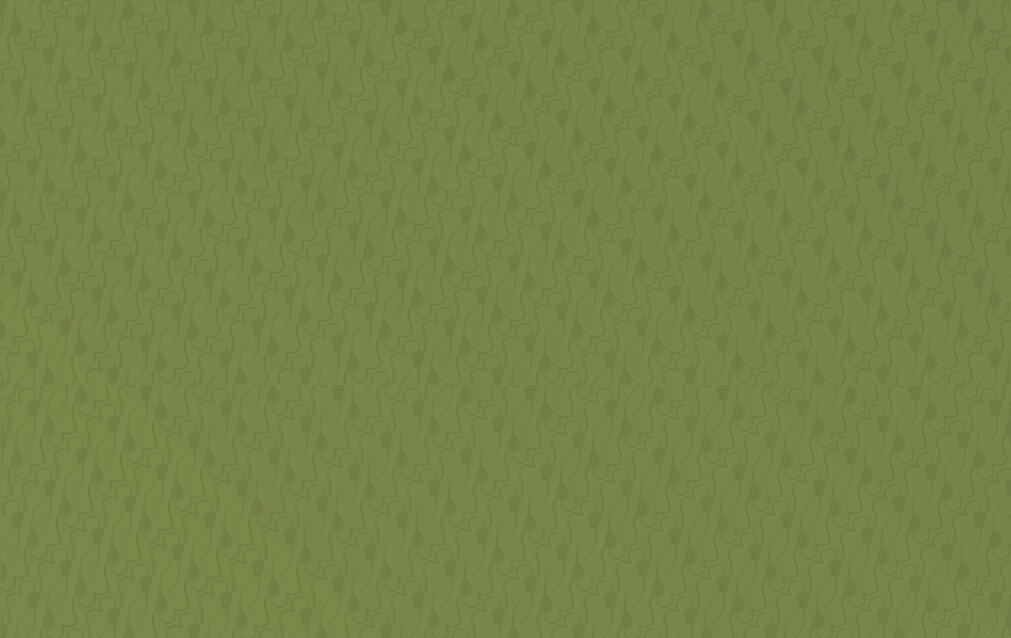
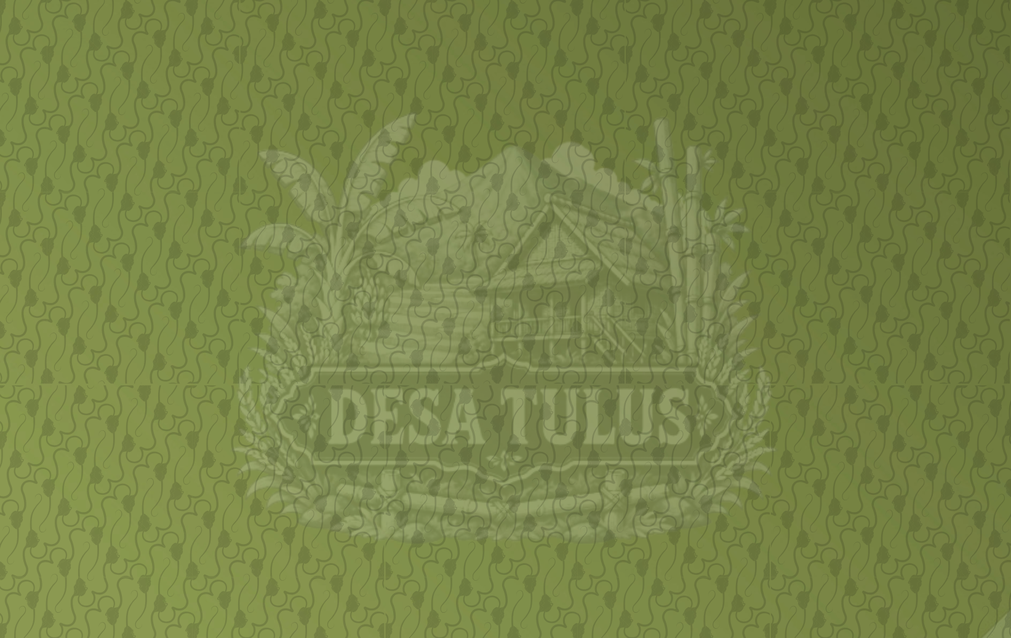
Update background KTP Pak RW v10.10.91 tanpa watermark tambahan

diff --git a/services/ktpWarga.js b/services/ktpWarga.js
@@ -48,7 +48,7 @@ function defaultKtpConfig() {
     cardSubtitle: "DESA TULUS",
     privacyNote: "KARTU KOMUNITAS DIGITAL • BUKAN DOKUMEN RESMI",
     numberMode: "random_unique_18_digits_v2",
-    rendererVersion: "10.10.89",
+    rendererVersion: "10.10.91",
     logToConsole: true
   };
 }
@@ -480,132 +480,6 @@ function resolveBackgroundPath(config = {}) {
   return path.join(__dirname, "..", configured);
 }
 
-function drawVillageTheme(ctx, width, height, frame = {}) {
-  const x = Number(frame.x || 0);
-  const y = Number(frame.y || 0);
-  const w = Number(frame.w || width);
-  const h = Number(frame.h || height);
-
-  ctx.save();
-  roundedRect(ctx, x, y, w, h, Number(frame.radius || 20));
-  ctx.clip();
-
-  // Garis lanskap dibuat sangat tipis agar tema perdesaan terasa tanpa membuat kartu ramai.
-  ctx.globalAlpha = 0.052;
-  ctx.strokeStyle = "#29401d";
-  ctx.lineWidth = 2;
-
-  const baseY = y + h - 78;
-  ctx.beginPath();
-  ctx.moveTo(x + 20, baseY);
-  ctx.quadraticCurveTo(x + 128, baseY - 50, x + 238, baseY);
-  ctx.quadraticCurveTo(x + 344, baseY - 76, x + 470, baseY);
-  ctx.quadraticCurveTo(x + 575, baseY - 43, x + 690, baseY);
-  ctx.stroke();
-
-  for (let index = 0; index < 2; index += 1) {
-    const lineY = y + h - 48 + index * 17;
-    ctx.beginPath();
-    ctx.moveTo(x + 22, lineY);
-    ctx.bezierCurveTo(x + 165, lineY - 10, x + 310, lineY + 7, x + 475, lineY - 3);
-    ctx.bezierCurveTo(x + 610, lineY - 10, x + 720, lineY + 7, x + 820, lineY - 2);
-    ctx.stroke();
-  }
-
-  ctx.restore();
-}
-
-function drawVillageWatermark(ctx, frame = {}) {
-  const x = Number(frame.x || 0);
-  const y = Number(frame.y || 0);
-  const w = Number(frame.w || 1011);
-  const h = Number(frame.h || 638);
-  const radius = Number(frame.radius || 20);
-  const centerX = x + w * 0.505;
-  const centerY = y + h * 0.535;
-
-  ctx.save();
-  roundedRect(ctx, x, y, w, h, radius);
-  ctx.clip();
-
-  // Emblem utama sengaja sangat transparan: terlihat sebagai watermark, bukan elemen depan.
-  ctx.globalAlpha = 0.052;
-  ctx.strokeStyle = "#203617";
-  ctx.fillStyle = "#203617";
-  ctx.lineWidth = 2.4;
-
-  // Lingkaran emblem.
-  ctx.beginPath();
-  ctx.arc(centerX, centerY - 18, 112, 0, Math.PI * 2);
-  ctx.stroke();
-  ctx.beginPath();
-  ctx.arc(centerX, centerY - 18, 101, 0, Math.PI * 2);
-  ctx.lineWidth = 1.2;
-  ctx.stroke();
-
-  // Matahari dan gunung sederhana.
-  ctx.beginPath();
-  ctx.arc(centerX + 47, centerY - 83, 15, 0, Math.PI * 2);
-  ctx.fill();
-
-  ctx.lineWidth = 3;
-  ctx.beginPath();
-  ctx.moveTo(centerX - 84, centerY - 19);
-  ctx.lineTo(centerX - 31, centerY - 70);
-  ctx.lineTo(centerX + 7, centerY - 30);
-  ctx.lineTo(centerX + 43, centerY - 63);
-  ctx.lineTo(centerX + 88, centerY - 18);
-  ctx.stroke();
-
-  // Bale desa kecil di tengah emblem.
-  ctx.lineWidth = 2.6;
-  ctx.beginPath();
-  ctx.moveTo(centerX - 34, centerY + 1);
-  ctx.lineTo(centerX, centerY - 23);
-  ctx.lineTo(centerX + 34, centerY + 1);
-  ctx.stroke();
-  ctx.strokeRect(centerX - 26, centerY + 1, 52, 29);
-  ctx.beginPath();
-  ctx.moveTo(centerX, centerY + 1);
-  ctx.lineTo(centerX, centerY + 30);
-  ctx.stroke();
-
-  // Sawah berupa tiga lengkung halus.
-  ctx.lineWidth = 1.8;
-  for (let index = 0; index < 3; index += 1) {
-    const fieldY = centerY + 45 + index * 12;
-    ctx.beginPath();
-    ctx.bezierCurveTo(
-      centerX - 88,
-      fieldY - 8,
-      centerX - 25,
-      fieldY + 8,
-      centerX,
-      fieldY
-    );
-    ctx.bezierCurveTo(
-      centerX + 25,
-      fieldY - 8,
-      centerX + 72,
-      fieldY + 7,
-      centerX + 88,
-      fieldY
-    );
-    ctx.stroke();
-  }
-
-  // Nama desa menjadi inti watermark seperti contoh, tetapi tetap tidak menonjol.
-  ctx.globalAlpha = 0.072;
-  ctx.textAlign = "center";
-  setCanvasFont(ctx, 43, 900);
-  ctx.fillText("DESA TULUS", centerX, centerY + 70);
-  ctx.globalAlpha = 0.058;
-  setCanvasFont(ctx, 11, 800);
-  ctx.fillText("RUKUN • NYAMAN • TULUS", centerX, centerY + 91);
-
-  ctx.restore();
-}
-
 function drawKtpField(ctx, label, value, y, options = {}) {
   resetCanvasTextState(ctx);
   const labelX = Number(options.labelX || 72);
@@ -686,24 +560,15 @@ async function renderKtpCard({ record, member, config = {}, avatarUrl = "" }) {
   ctx.clip();
   ctx.drawImage(background, card.x, card.y, card.w, card.h);
 
-  // Gradasi sangat tipis untuk menjaga teks terbaca tanpa menghilangkan pola asli.
+  // Overlay keterbacaan dibuat sangat tipis. Tidak ada watermark atau ornamen tambahan:
+  // seluruh motif hanya berasal dari background resmi yang dipilih owner.
   const tint = ctx.createLinearGradient(card.x, card.y, card.x + card.w, card.y);
-  tint.addColorStop(0, "rgba(205, 219, 121, 0.22)");
-  tint.addColorStop(0.62, "rgba(130, 157, 72, 0.10)");
-  tint.addColorStop(1, "rgba(51, 78, 31, 0.22)");
+  tint.addColorStop(0, "rgba(232, 238, 174, 0.10)");
+  tint.addColorStop(0.64, "rgba(188, 204, 124, 0.04)");
+  tint.addColorStop(1, "rgba(39, 60, 25, 0.08)");
   ctx.fillStyle = tint;
   ctx.fillRect(card.x, card.y, card.w, card.h);
-
-  // Cahaya lembut hanya pada area data agar tampak premium dan tidak ramai.
-  const softGlow = ctx.createRadialGradient(310, 300, 40, 310, 300, 430);
-  softGlow.addColorStop(0, "rgba(231, 236, 164, 0.20)");
-  softGlow.addColorStop(1, "rgba(231, 236, 164, 0)");
-  ctx.fillStyle = softGlow;
-  ctx.fillRect(card.x, card.y, card.w, card.h);
   ctx.restore();
-
-  drawVillageTheme(ctx, width, height, card);
-  drawVillageWatermark(ctx, card);
 
   // Garis bingkai digambar terakhir agar tegas dan seluruh background tetap di dalamnya.
   ctx.save();

diff --git a/index.js b/index.js
@@ -11337,7 +11337,7 @@ app.put("/api/dashboard/settings", requireDashboardAuth, (req, res) => {
       if (!isSafeDashboardPath(pathText)) return res.status(400).json({ ok: false, error: `Path config tidak diizinkan: ${pathText}` });
       setDashboardPath(cfg, pathText, patch.value);
     }
-    cfg.version = "10.10.90";
+    cfg.version = "10.10.91";
     writeConfigFile(cfg);
     appendDashboardActivity("settings", "Setting dashboard disimpan", `${patches.length} field diperbarui melalui adapter aman.`);
     if (levelRoleConfigChanged) {
@@ -11357,7 +11357,7 @@ app.put("/api/dashboard/embed/:key", requireDashboardAuth, (req, res) => {
     const cfg = readConfigFile();
     cfg.embeds = cfg.embeds || {};
     cfg.embeds[key] = mergeDashboardEmbed(cfg.embeds[key] || {}, req.body?.embed || {});
-    cfg.version = "10.10.90";
+    cfg.version = "10.10.91";
     writeConfigFile(cfg);
     appendDashboardActivity("embed", "Template embed disimpan", `Template ${key} diperbarui dari Embed Builder.`);
     return res.json({ ok: true, embed: cfg.embeds[key] });
@@ -11444,7 +11444,7 @@ app.put("/api/afk-voice/config", requireDashboardAuth, async (req, res) => {
       if (!valid.ok) return res.status(400).json({ success: false, message: valid.message, errorCode: valid.errorCode });
     }
     cfg.afkVoice = next;
-    cfg.version = "10.10.90";
+    cfg.version = "10.10.91";
     writeConfigFile(cfg);
     appendDashboardActivity("afk-voice", "AFK Voice diperbarui", next.enabled ? `Channel voice ${next.channelId} diterapkan.` : "Fitur dinonaktifkan.");
 
@@ -11486,7 +11486,7 @@ app.post("/api/afk-voice/disconnect", requireDashboardAuth, async (req, res) => 
   if (!checkActionRateLimit()) return res.status(429).json({ success: false, message: "Tunggu sebentar sebelum memutus koneksi.", errorCode: "RATE_LIMITED" });
   const cfg = readConfigFile();
   cfg.afkVoice = { ...(cfg.afkVoice || {}), enabled: false, updatedAt: new Date().toISOString(), updatedBy: "dashboard" };
-  cfg.version = "10.10.90";
+  cfg.version = "10.10.91";
   writeConfigFile(cfg);
   const result = await disconnectAfkVoice({ disable: true });
   return res.json(result);

diff --git a/UPDATE_FINAL_v10.10.91.md b/UPDATE_FINAL_v10.10.91.md
@@ -1,0 +1,12 @@
+# Pak RW v10.10.91 — Background KTP Resmi Tanpa Watermark Tambahan
+
+## Perubahan
+- Asset `assets/ktp-desa-tulus-background.png` diganti menggunakan background yang diberikan owner.
+- Background disesuaikan tepat ke ukuran renderer 1011×638 tanpa mengubah rasio kartu.
+- Watermark, emblem, gunung, sawah, dan ornamen tambahan yang sebelumnya digambar ulang oleh Canvas dihapus.
+- Renderer sekarang hanya memakai motif yang sudah menyatu di file background sehingga tidak terjadi efek double.
+- Overlay keterbacaan dikurangi menjadi sangat tipis agar warna dan motif background tetap asli.
+- Bingkai, teks, avatar, nomor KTP, tombol, command, database, AI, AFK Voice, level, role, dan dashboard tetap dipertahankan.
+
+## Keamanan data
+Update tidak mengubah atau mereset `.env`, `config.json`, MongoDB, folder `data`, data KTP, level, poin, role, ataupun konfigurasi server.

diff --git a/README.md b/README.md
@@ -304,6 +304,15 @@ Perubahan utama:
 
 Renderer KTP mendaftarkan DejaVu Sans dari dependency `dejavu-fonts-ttf` melalui `GlobalFonts.registerFromPath()` sebelum menggambar teks. Font generic host hanya menjadi fallback terakhir. Garis dekorasi tidak ikut dihitung sebagai pixel teks, sehingga KTP kosong tidak dapat lolos validasi.
 
+## Pak RW v10.10.91 — Background KTP Resmi Tanpa Watermark Tambahan
+
+- Background KTP diganti menggunakan asset resmi yang diberikan owner.
+- Asset disesuaikan ke ukuran native renderer **1011 × 638** tanpa memotong motif atau mengubah rasio desain.
+- Watermark, emblem, gunung, sawah, cahaya, dan ornamen tambahan dari kode Canvas dihapus agar tidak terjadi efek double.
+- Renderer hanya memakai motif yang sudah menyatu di file background resmi.
+- Overlay keterbacaan dibuat sangat tipis; bingkai, teks, avatar, tanggal, dan footer tetap rapi di dalam kartu.
+- AI v10.10.90, font Railway v10.10.89, AFK Voice v10.10.87, MongoDB, level, poin, role, dashboard, dan data lama tetap dipertahankan.
+
 ## Pak RW v10.10.90 — AI GPT-5.4, Memori Per Warga, dan Pengetahuan Server Live
 
 - Pak RW mengenal dirinya sebagai **Pak RW DESA TULUS** dan mengenal owner server sebagai **BEKIW**.